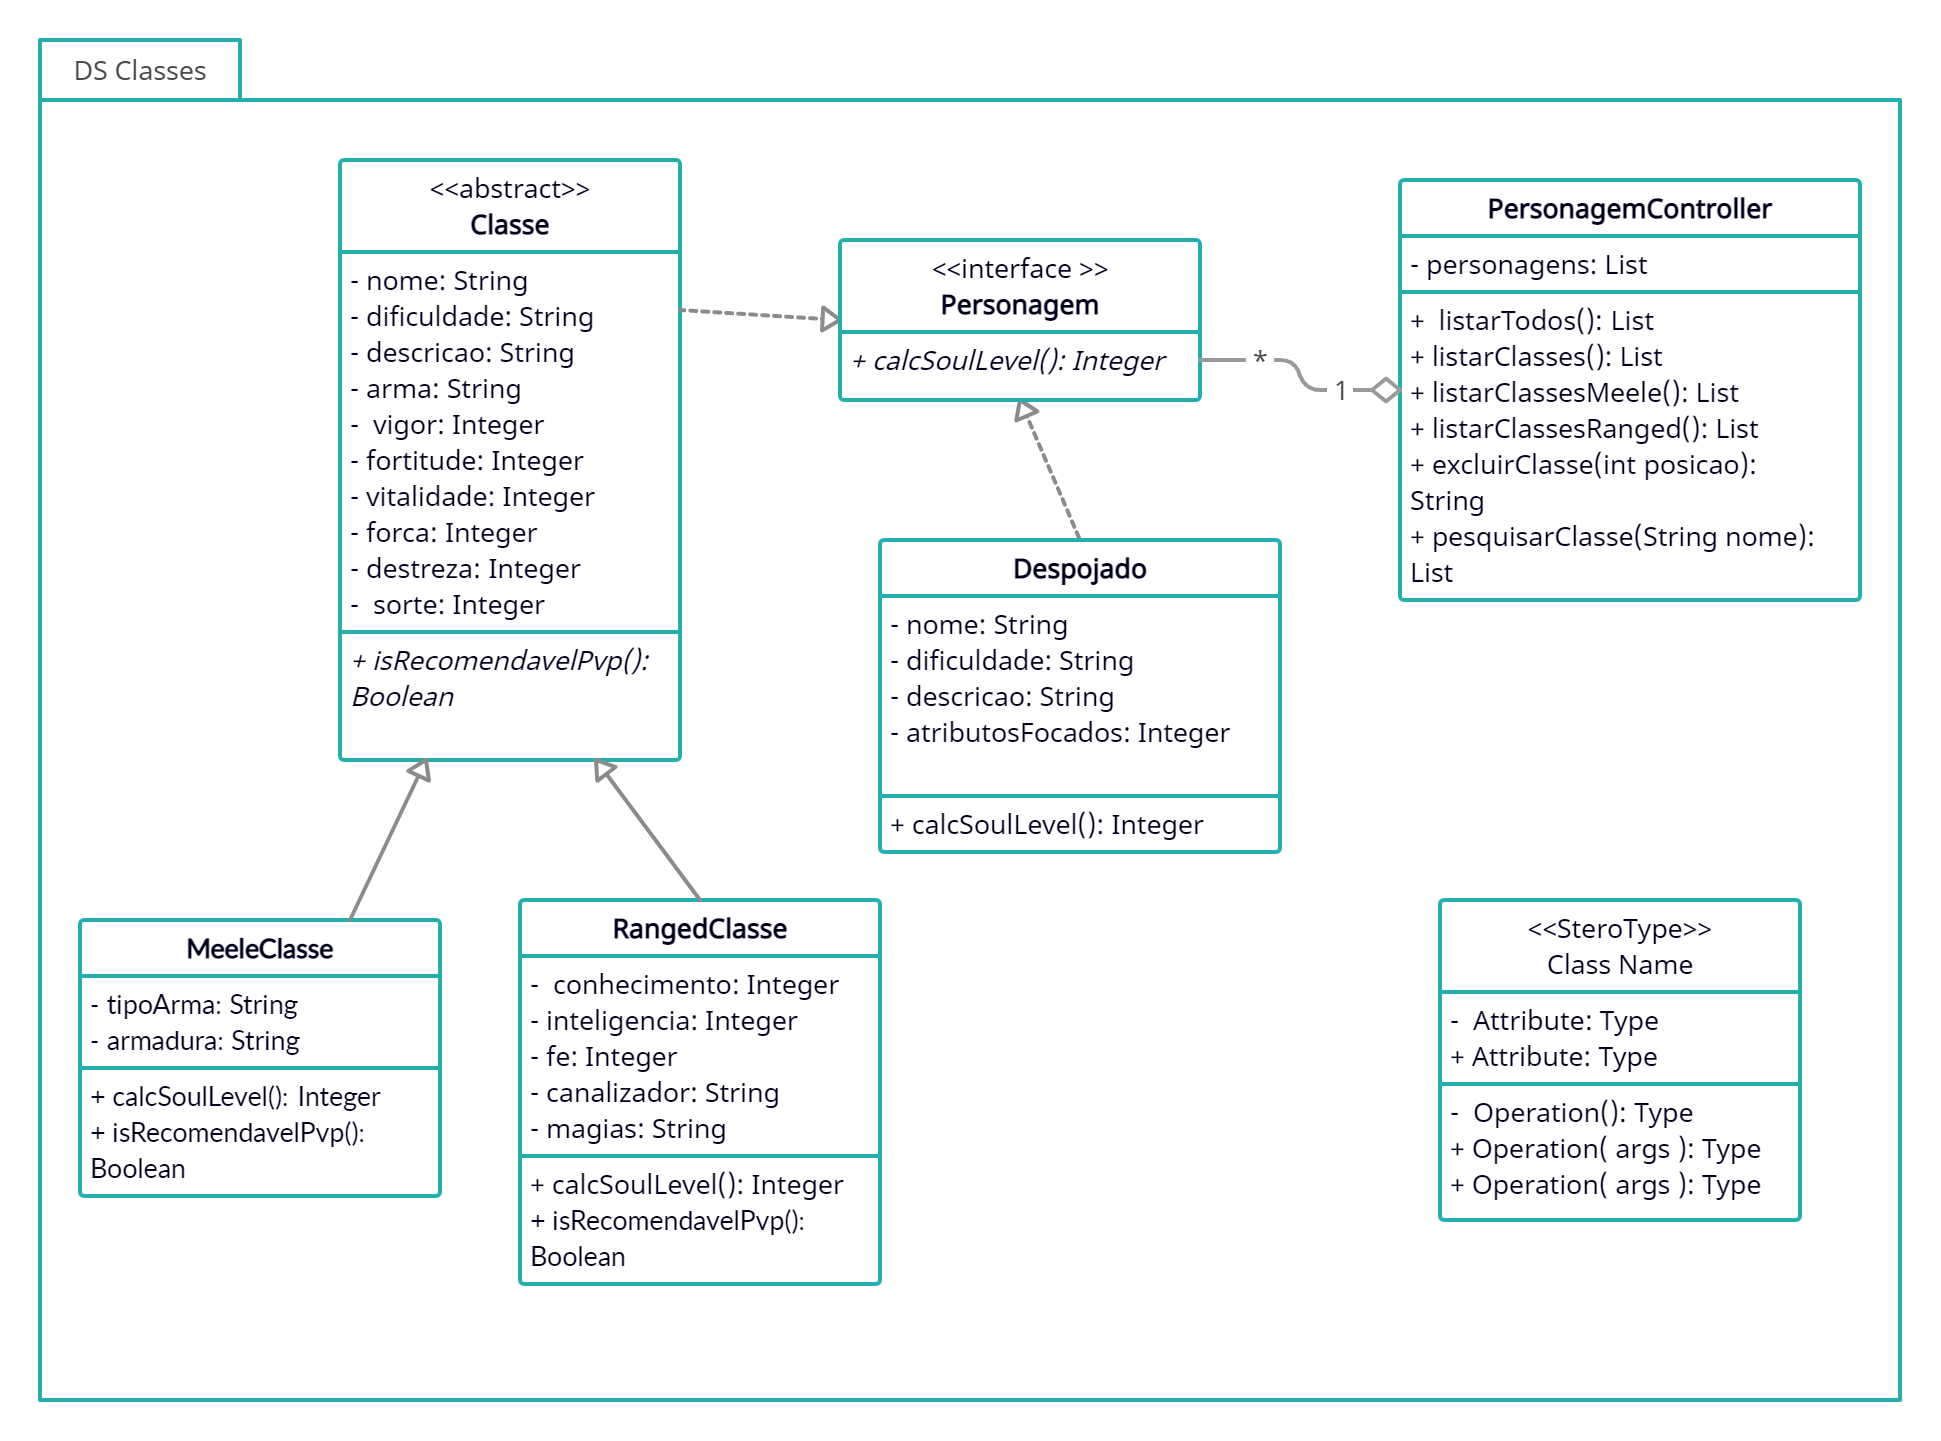
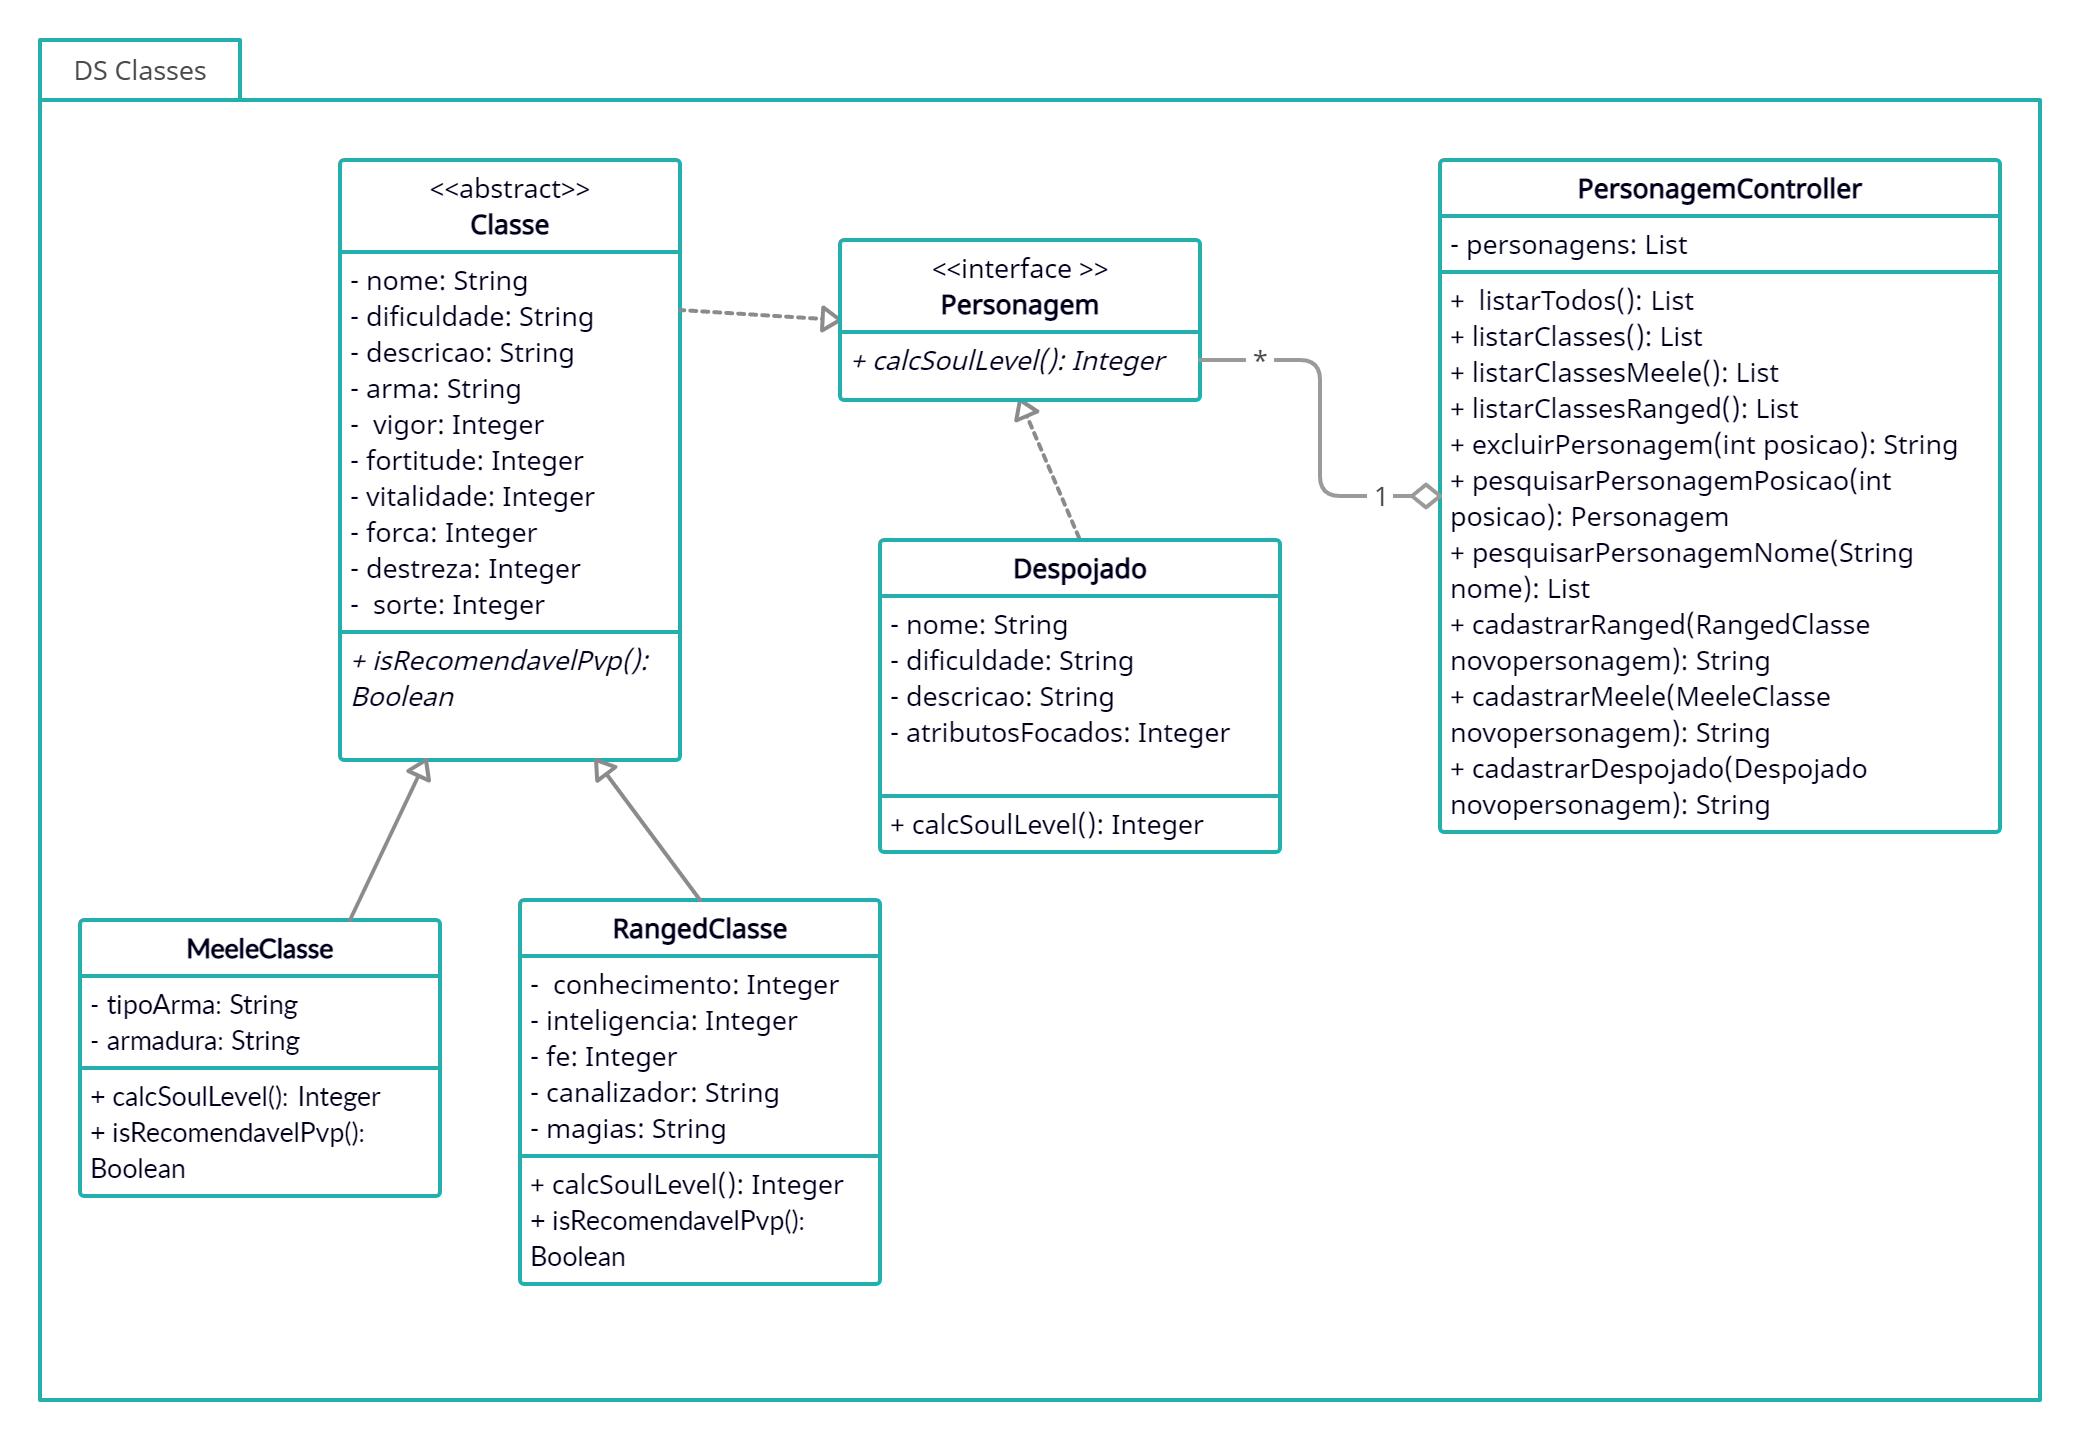
inserindo novos metodos de requisição e atualizando o diagrama de classe

diff --git a/dark-souls/src/main/java/br/com/bandtec/darksouls/PersonagemController.java b/dark-souls/src/main/java/br/com/bandtec/darksouls/PersonagemController.java
@@ -114,5 +114,23 @@ public class PersonagemController {
         return personagens.stream().filter(personagem ->
                 personagem.getNome().contains(nome)).collect(Collectors.toList());
     }
+
+    @PostMapping("/classes/rangeds")
+    public String cadastrarRanged(@RequestBody RangedClasse novoPersonagem){
+        personagens.add(novoPersonagem);
+        return "Personagem cadastrado com sucesso!";
+    }
+
+    @PostMapping("/classes/meeles")
+    public String cadastrarMeele(@RequestBody MeeleClasse novoPersonagem){
+        personagens.add(novoPersonagem);
+        return "Personagem cadastrado com sucesso!";
+    }
+
+    @PostMapping("/despojados")
+    public String cadastrarDespojado(@RequestBody Despojado novoPersonagem){
+        personagens.add(novoPersonagem);
+        return "Personagem cadastrado com sucesso!";
+    }
 }
 
